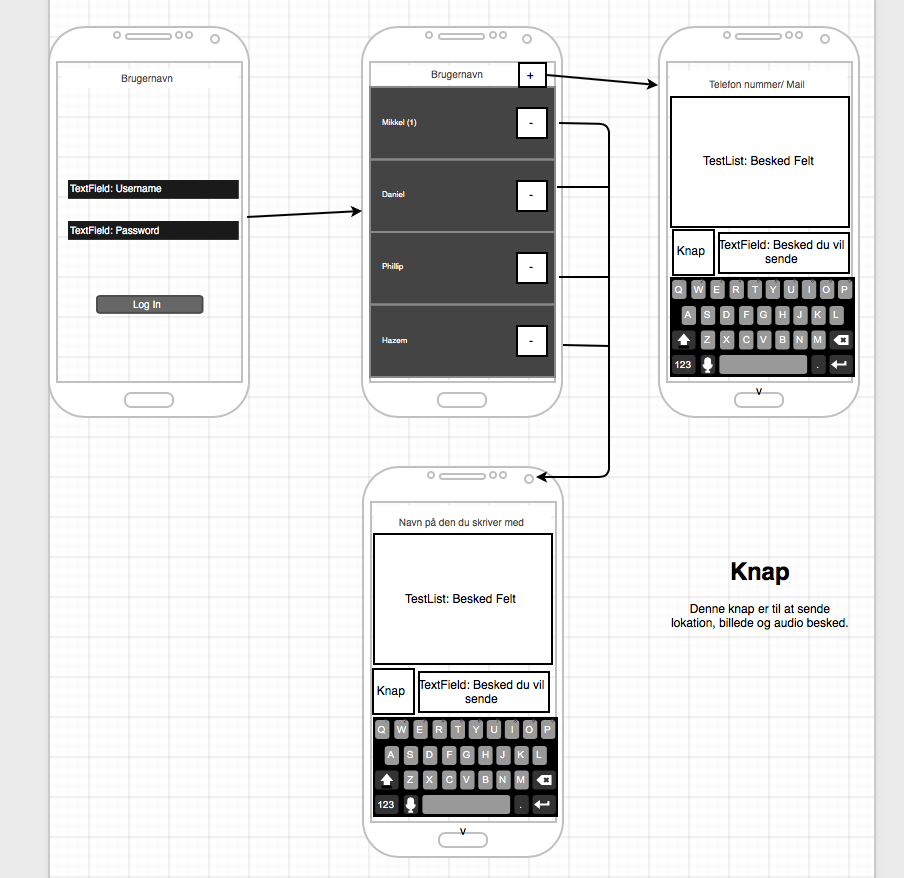
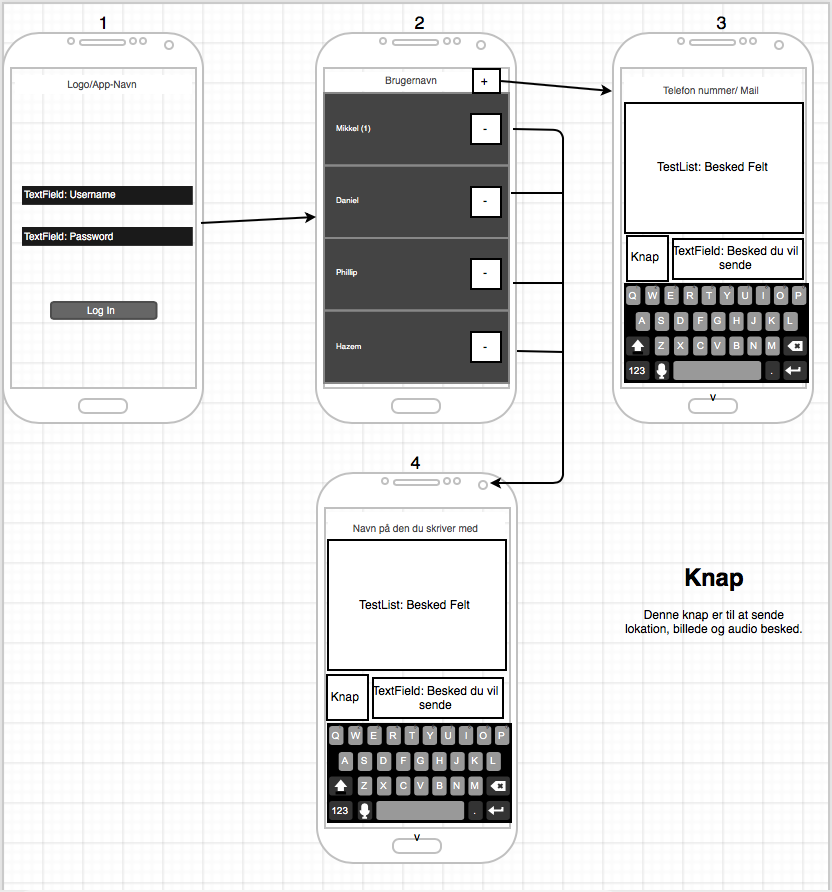
Updated the readme so it more specific

diff --git a/README.md b/README.md
@@ -4,30 +4,56 @@
 ### Gruppen: Mikkel Ziemer, Daniel Winkel, Hazem Saeid og Phillip Brink.
 
 ### Formål
- - At lave vores eksamens projekt i Android.
+ - At lave vores eksamens projekt i Android Studio.
  - At lave en App der virker ligesom Imessage, blot til Android
+ - Lave en App til Android telefoner.
 
 ### Appen <br>
-Appen skal fungere ligesom Imessage og den er meningen at man skal kunne sende beskeder, audio besked, billeder og videoer. Derudover så er det meningen at appen skal gemme histroikken, så man kan se alle de gamle beskeder.
+Appen skal fungere ligesom Imessage og det er meningen at man skal kunne sende beskeder, audiobesked, billeder og videoer. Derudover så er det meningen at appen skal gemme op til 30 dags historik fra top 5 man skriver med og derudover skal den kunne hente de andre beskeder mens den åbnes.
 
- - Vi vil gerne lave en app ligesom IMessage bare til android. <br>
+ - Imessage bare til Android (AMessage) <br>
  - Den skal kunne sende beskeder. <br>
  - Det skal være muligt at sende sin lokation. <br>
  - Det skal være muligt at tage billeder og sende. <br>
- - Besked historik, per person du skriver med, skal gemmes i den noSQL database. <br>
- - Liste over personer du skrive eller kan skrive med <br>
- - Audio besked (Tale besked) <br>
- - Lave en website hvor man kan logge ind og se beskeder. (React/Express)?? <br>
+ - Besked historik, på ens top 5 skal gemmes i SQLlite databasen på telefoner. <br>
+ - Brugernavn og Password skal gemmes på telefonen så den hurtig kan kontrolleres. <br>
+ - Token til at lave Get kald skal gemmes i appen, sammen med brugernavn og password. <br>
+ - Liste over personer du skrive <br>
+ - Knap til at skrive med nye, kan vælge mellem e-mail eller telefonnummer. <br>
+ - Audiobesked (Talebesked) <br>
+ - Lave en database til hvor alt historikken gemmes. <br>
 
+### Plantegning over hvordan appen skal se ud.
  ![alt text](https://github.com/philliphb/Android-Exam/blob/master/Appen.png) <br>
-
+#### - 1: Login
+  - "Logo eller App-navn" i toppen.
+  - "Username" and "Password" bruges til login knappen.
+  Looks in the database, local on the phone (SQLLite) if it exsist collects token form phone to get chat from server. If the user do not exsist connects to main server to see if user exsist in main database and collects userinformation and token.
+  - "Log in" knappen kigger i den locale database (SQLLite) på telefonen for at se om brugere har være logget ind. Hvis brugere har været logget in så gider den token til at lave sikkert get klad for at hente besked historik fra hoved databasen. Hvis bruger ikke har været på telefonen før så laver den et kald til hoved serveren for at se om bruger ligger i hoved database hvorefter den gemme brugernavn, password og token på telefonen. Hvis det er en gyldig bruger leder den bruger videre til billede 2.
+  <br>
+#### - 2: Overview
+  - "Logo eller App-navn" udskiftes med Username.
+  - Knap "+" brugers til at komme til 3 ny besked.
+  - ved tryk på navn eller rundt om kommer man til 4 chat med den specifikke person.
+  - Kan "-" er til at slette samtaler med den specifikke person.
+#### 3: New Message
+  - "Username" udskiftes med et field hvor man kan skrive nummer eller email.
+  - "Besked felt" er tomt.
+  - "Knap" brugers til at sende billeder, videoer, talebeskeder eller sin lokation.
+  - "Besked du vil sende" Her skriver man sin bedsked.
+#### - 4: Chat
+  - "Username" udskiftes med navnet med den personer man skriver med.
+  - "Besked felt" her er historikken for den man har skrevet med.
+  - "Knap" brugers til at sende billeder, videoer, talebeskeder eller sin lokation.
+  - "Besked du vil sende" Her skriver man sin bedsked.
+<br>
 #### Features <br>
 ##### Must have <br>
- - Send besked
- - Opret besked
+ - Send besked / oprette besked
+ - Logge ind
  - Liste over folk du skriver med
  - Navigere rundt i appen
- - Matche brugernavn og password i noSQL (På telefonen)
+ - Matche brugernavn og password i SQLLite (På telefonen)
 ##### Nice <br>
  - Sende Billede
  - Sende Lokation
